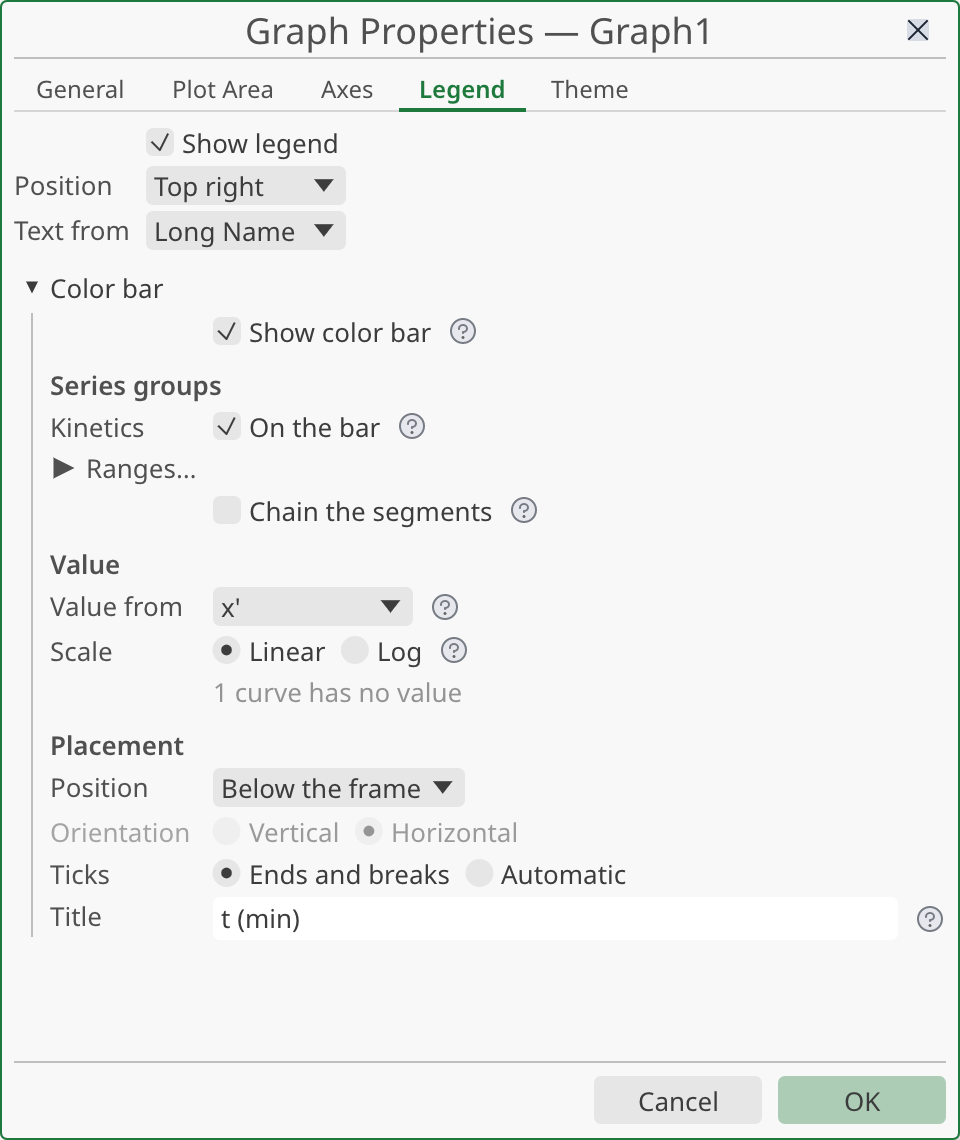
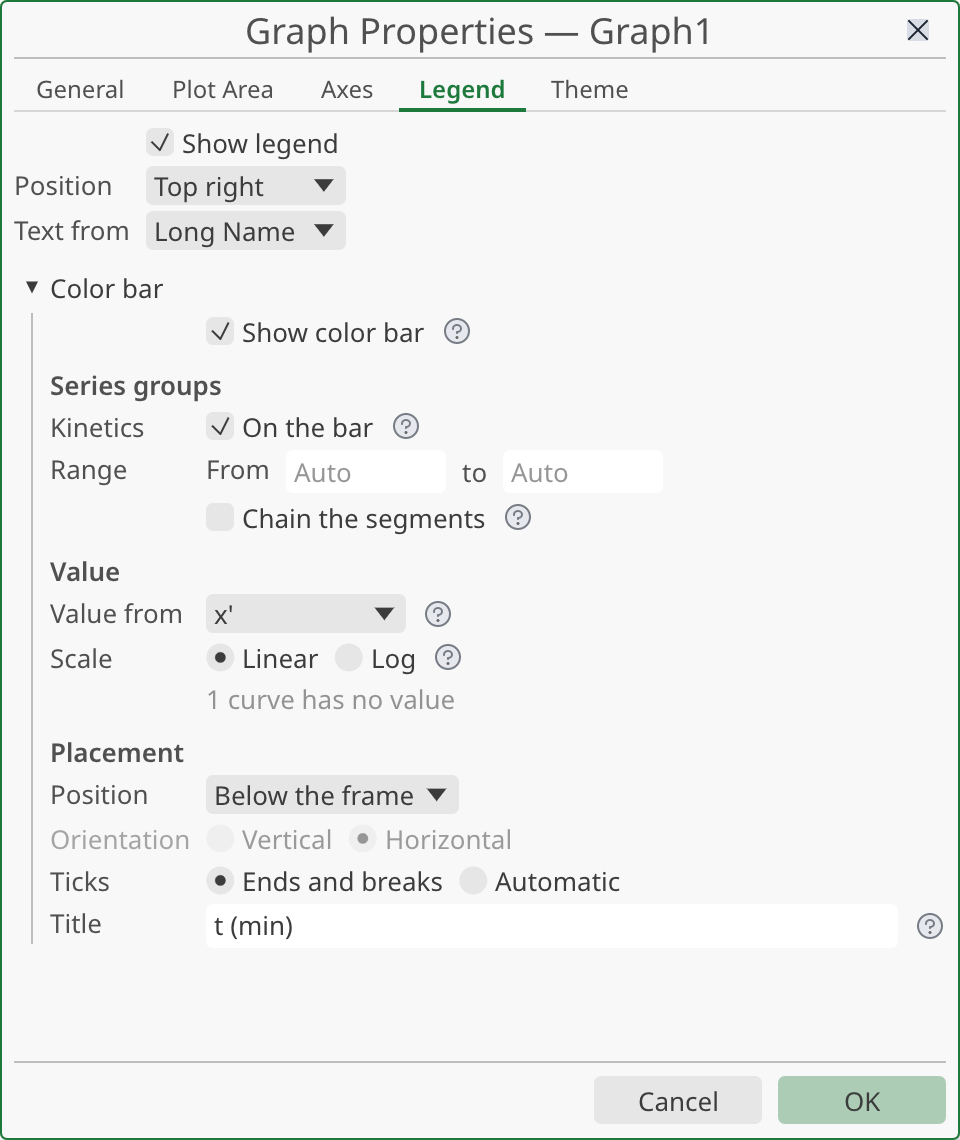
Colour bar: replace the folded « Ranges… » by an always-visible Range row (Refs #499)
Under each ticked group, a row labelled Range shows From and to (Auto when
empty), aligned like the other rows. The fold state and its texts are gone;
a test checks the row is shown and an edit reaches the segment. Manual text
and screenshot updated.

Claude-Session: https://claude.ai/code/session_01PxxG2TctLTUqHZ5Y2p5gRS

diff --git a/crates/stokesforge-app/src/app/color_bar_settings.rs b/crates/stokesforge-app/src/app/color_bar_settings.rs
@@ -216,12 +216,6 @@ pub(super) fn color_bar_editor(
     commit
 }
 
-/// True if the « Ranges… » fold of a segment starts open: one of its ends is
-/// typed (#499).
-pub(super) fn ranges_open_by_default(segment: &ColorBarSegment) -> bool {
-    segment.from.is_some() || segment.to.is_some()
-}
-
 /// The groups of the bar that are followed by another one, in graph order
 /// (`order`): each carries the label of the break between the two. None for
 /// the last group on the bar; the label of a group is kept in its segment, so
@@ -239,7 +233,7 @@ pub(super) fn groups_with_a_break(bar: &ColorBarSpec, order: &[u32]) -> Vec<u32>
 }
 
 /// Every series group of the layer, in graph order, each with its « on the
-/// bar » box; under a ticked group its folded ranges; between two ticked
+/// bar » box; under a ticked group its range; between two ticked
 /// groups the label of their break; then the chain option. Draws into any
 /// form, so the block can be moved to another page.
 fn groups_section(
@@ -288,33 +282,25 @@ fn groups_section(
         if on_bar {
             previous = Some(group);
             if let Some(segment) = bar.segments.iter_mut().find(|s| s.group == group) {
-                let open = ranges_open_by_default(segment);
-                let edited = form.collapsible_open(
-                    ("color_bar_ranges", group),
-                    tr!("plot-color-bar-ranges"),
-                    open,
-                    |form| {
-                        form.row(tr!("plot-axes-from"), |ui| {
-                            let first = auto_number_field(
-                                ui,
-                                ("color_bar_from", group),
-                                &mut segment.from,
-                                &quantities::COLOR_BAR_BOUND,
-                                &hint_from,
-                            );
-                            ui.label(tr!("analysis-field-to"));
-                            let second = auto_number_field(
-                                ui,
-                                ("color_bar_to", group),
-                                &mut segment.to,
-                                &quantities::COLOR_BAR_BOUND,
-                                &hint_from,
-                            );
-                            first.changed || second.changed
-                        })
-                    },
-                );
-                *commit |= edited.unwrap_or(false);
+                *commit |= form.row(tr!("plot-color-bar-range"), |ui| {
+                    ui.label(tr!("plot-axes-from"));
+                    let first = auto_number_field(
+                        ui,
+                        ("color_bar_from", group),
+                        &mut segment.from,
+                        &quantities::COLOR_BAR_BOUND,
+                        &hint_from,
+                    );
+                    ui.label(tr!("analysis-field-to"));
+                    let second = auto_number_field(
+                        ui,
+                        ("color_bar_to", group),
+                        &mut segment.to,
+                        &quantities::COLOR_BAR_BOUND,
+                        &hint_from,
+                    );
+                    first.changed || second.changed
+                });
             }
         }
     }

diff --git a/crates/stokesforge-app/src/app/plot_settings.rs b/crates/stokesforge-app/src/app/plot_settings.rs
@@ -4899,12 +4899,10 @@ mod tests {
     }
 
     /// #499: the break label sits between two ticked groups only (none after
-    /// the last), and the ranges fold opens by itself when an end is typed.
-    /// Witness: a break on every group, or a fold closed over a typed end,
-    /// fails.
+    /// the last). Witness: a break on every group fails.
     #[test]
-    fn breaks_sit_between_ticked_groups_and_ranges_open_when_set() {
-        use super::super::color_bar_settings::{groups_with_a_break, ranges_open_by_default};
+    fn breaks_sit_between_ticked_groups() {
+        use super::super::color_bar_settings::groups_with_a_break;
         use stokesforge_plot::{ColorBarSegment, ColorBarSpec};
         let bar = |groups: &[u32]| ColorBarSpec {
             segments: groups.iter().map(|g| ColorBarSegment::new(*g)).collect(),
@@ -4921,10 +4919,39 @@ mod tests {
         // A free group in the middle does not break the chain of two.
         assert_eq!(groups_with_a_break(&bar(&[3, 1]), &[1, 2, 3]), [1]);
         assert_eq!(groups_with_a_break(&bar(&[1, 2, 3]), &[1, 2, 3]), [1, 2]);
-        let mut segment = ColorBarSegment::new(1);
-        assert!(!ranges_open_by_default(&segment));
-        segment.to = Some(5.0);
-        assert!(ranges_open_by_default(&segment));
+    }
+
+    /// #499: a ticked group always shows its « Range » row (From and to, no
+    /// fold to open), and a typed end reaches the model on Enter, the other
+    /// end staying Auto. Witness: a row folded away fails the lookup, an edit
+    /// that does not reach the segment, or that touches the other end, fails.
+    #[test]
+    fn the_range_row_is_always_shown_and_its_edits_reach_the_model() {
+        use stokesforge_plot::{ColorBarSegment, ColorBarSpec};
+        let mut harness = harness(|spec| {
+            let panel = first_panel(spec);
+            let template = panel.series[0].clone();
+            panel.series.clear();
+            let mut series = template;
+            series.group = Some(1);
+            panel.series.push(series);
+            let mut segment = ColorBarSegment::new(1);
+            segment.from = Some(2.0);
+            panel.color_bar = Some(ColorBarSpec {
+                visible: true,
+                segments: vec![segment],
+                ..ColorBarSpec::default()
+            });
+        });
+        harness.open(PlotSettingsTab::Legend, None);
+        let context = test_support::context();
+        let painted = paint_window(&context, &mut harness.state, Vec::new());
+        assert!(is_painted(&painted, &tr!("plot-color-bar-range")));
+        assert!(is_painted(&painted, &tr!("common-auto")), "empty end");
+        type_into(&context, &mut harness, "2", "7"); // appended: 27
+        let model = harness.model();
+        let segment = &model.panels[0].color_bar.as_ref().unwrap().segments[0];
+        assert_eq!((segment.from, segment.to), (Some(27.0), None));
     }
 
     /// #499: the section opens by itself when the layer's bar is shown, and

diff --git a/manual/src/guide/graphs.md b/manual/src/guide/graphs.md
@@ -325,12 +325,12 @@ A color bar colors the curves of one or more groups by a **value** instead of by
 
 To put a group on the bar, open the page of the group in the Series window and tick **On the color bar**, or open the **Legend** tab of Graph Properties, unfold the **Color bar** section at the bottom (it is closed until the layer has a bar, and opens by itself once the bar is shown), tick **Show color bar**, then tick **On the bar** for each group. A group that had no color gradient gets the first one of the list. Unticking **On the bar** gives the curves their own colors and legend entries back: a group left off the bar, like a reference spectrum, keeps its color and its legend entry. While a group is on a visible bar, the line and symbol colors of its curves are greyed out in the Series window: the color comes from the bar.
 
-<img src="../images/graphs-properties-color-bar.png" alt="The Graph Properties window on its Legend tab, with the Color bar section open: the series group Kinetics on the bar, its folded Ranges, Chain the segments, then the value, placement and title rows." width="640">
+<img src="../images/graphs-properties-color-bar.png" alt="The Graph Properties window on its Legend tab, with the Color bar section open: the series group Kinetics on the bar, its Range row, Chain the segments, then the value, placement and title rows." width="640">
 
 The **Color bar** section has:
 
 - **Show color bar**. Cleared, the curves get their own colors and legend entries back; the settings are kept.
-- **Series groups**. Every group of the layer is listed, in the order of the graph (the same order as in the Object Manager), each with an **On the bar** box. The order of the bar always follows this order; there is nothing to move. Between two groups that are on the bar, a line **Break label** holds the Typst text written under the bar, right of the value of the break between them; there is none after the last group. The label stays with the group above it, so it comes back when you tick again a group you had cleared below it. Under each group on the bar, **Ranges…** is folded (it opens by itself when a range is set): **From** and **to**, where empty means **Auto**, the smallest and the largest value of the curves of the group. **Chain the segments** makes each segment start where the previous one ends: groups of 0 to 57 and 0 to 25 are drawn from 0 to 57 and from 57 to 82. The colors do not change, only the scale.
+- **Series groups**. Every group of the layer is listed, in the order of the graph (the same order as in the Object Manager), each with an **On the bar** box. The order of the bar always follows this order; there is nothing to move. Between two groups that are on the bar, a line **Break label** holds the Typst text written under the bar, right of the value of the break between them; there is none after the last group. The label stays with the group above it, so it comes back when you tick again a group you had cleared below it. Under each group on the bar, a **Range** row shows **From** and **to**, where empty means **Auto**, the smallest and the largest value of the curves of the group. **Chain the segments** makes each segment start where the previous one ends: groups of 0 to 57 and 0 to 25 are drawn from 0 to 57 and from 57 to 82. The colors do not change, only the scale.
 - **Value from**. The header row that gives the value of each curve: **x'** (the default), **Comments**, **Long Name**, **Short Name** or **Units**. For a row series, **Row series** chooses **No value** or **Value of column…** with the column to read. A cell that holds text or a unit (`57 min`) has no value. The value is read each time the figure is drawn: change the x' of a column and the color follows. A line such as **1 curve has no value** lists the curves of the bar that have none; they keep their own color and are left off the bar.
 - **Scale**: **Linear** or **Log**. On a log scale a value of zero or less has no color.
 - **Position**: the four corners of the plot area, **Below the frame** or **Right of the frame**. Outside the frame the figure grows to make room; the plot area keeps its size. **Orientation** (**Horizontal** or **Vertical**) is greyed out for those two places, which force it. Drag the bar to move it anywhere on the figure; **Position** then reads **Dragged**, and choosing any place in the list, even **Below the frame**, brings the bar back there. A bar inside the plot area keeps its size when moved and is not stretched: click it, then pull one of the small squares around it, as for a rectangle drawn on the graph, to make it longer, shorter, thicker or thinner. The texts of the bar keep their font size and are placed again around the strip. Below or right of the frame the length follows the frame and only the thickness can be pulled. Choosing another **Position** keeps the size; a drag of the bar is undone in one step.
